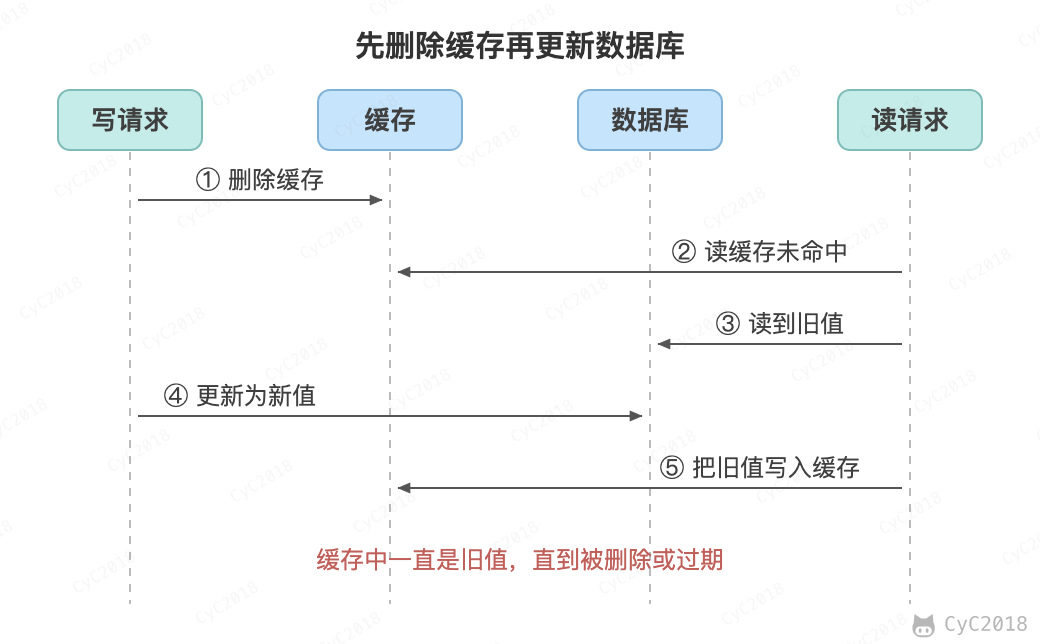
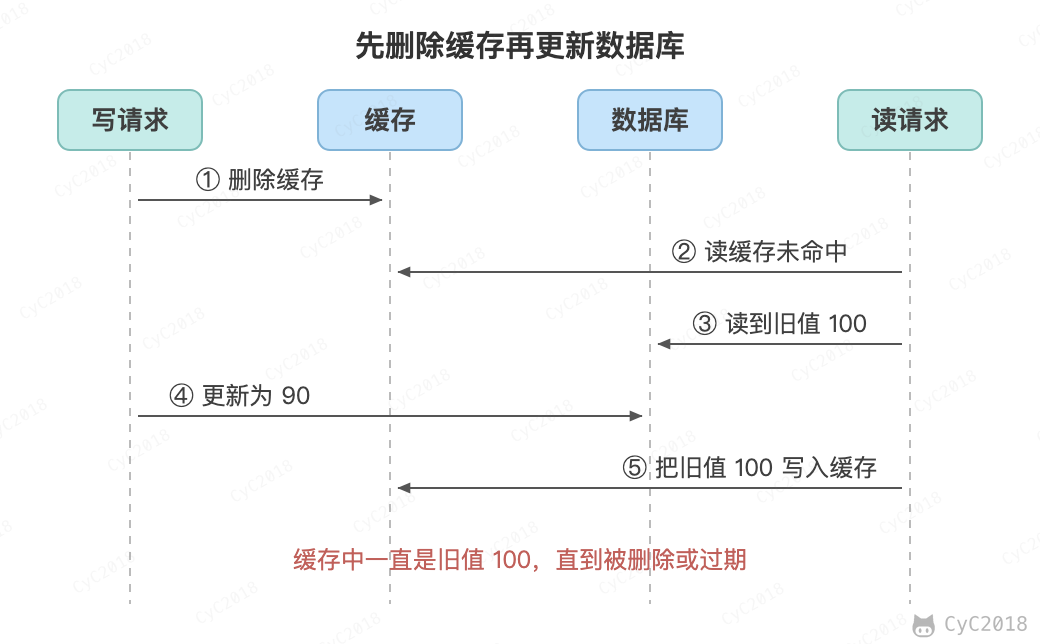
Update 缓存.md
补充先更新数据库再删除缓存时仍会留下旧值的情况、补救措施和实测，增加配图。

diff --git a/notes/缓存.md b/notes/缓存.md
@@ -162,13 +162,25 @@ CDN 主要有以下优点：
 
 <div align="center"> <img src="pics/cache-aside-race.png" width="520px"/> </div><br>
 
-这种模式仍然存在小概率的不一致，例如删除缓存失败。常用的补救措施：
+先更新数据库再删除缓存，仍然有两种情况会留下旧值：
+
+- 删除缓存失败，例如 Redis 超时；
+- 缓存刚好过期时，读请求从数据库读到旧值后停顿了一段时间（例如 GC），在它写回缓存之前，写请求更新了数据库并删除了缓存，之后读请求把旧值写入缓存。
+
+<div align="center"> <img src="pics/cache-aside-stale.png" width="520px"/> </div><br>
+
+第二种情况要求缓存恰好失效，并且读请求从查询数据库到写回缓存的耗时比写请求更新数据库再删除缓存还长，因此概率很小。
+
+用 8 个读进程不停读取同一个键，写入 1000 次：先删缓存再更新数据库有 980 次留下了旧值，先更新数据库再删缓存为 0 次。让缓存在每次写入前过期、读请求写回缓存前随机停顿 0～5 毫秒之后，先更新数据库再删缓存也有 542 次留下了旧值，加上延迟双删后为 0 次（MySQL 8.0、Redis 7.4 实测，见[附录 A4](#a4-缓存一致性的三种写法)）。
+
+常用的补救措施：
 
 - 为缓存设置过期时间作为兜底；
-- 延迟双删：更新数据库之后，隔一小段时间再删除一次缓存；
-- 订阅数据库的 binlog（例如使用 Canal）来异步删除缓存，失败时重试。
+- 延迟双删：更新数据库并删除缓存之后，隔一段时间再删除一次，清掉慢读请求写回的旧值，间隔要大于读请求从查询数据库到写回缓存的耗时；
+- 订阅数据库的 binlog（例如使用 Canal）异步删除缓存，失败时重试，业务代码中不再需要删除缓存；
+- 写回缓存时检查期间是否有过删除：Facebook 的 Memcache 在缓存未命中时发给读请求一个租约（lease）令牌，写回时要带上令牌，如果这期间键被删除，令牌就会失效，旧值写不进缓存。
 
-要保证缓存一致性需要付出很大的代价，缓存数据最好是那些对一致性要求不高的数据，允许缓存数据存在一些脏数据。
+缓存和数据库之间只能做到最终一致，要保证强一致需要付出很大的代价。缓存数据最好是那些对一致性要求不高、能接受短时间读到旧值的数据，余额、库存扣减这类数据应该直接读写数据库。
 
 ### 缓存 “无底洞” 现象
 
@@ -468,6 +480,48 @@ def owner(r, k):
 一致性哈希，每个节点 150 个位置：4 个节点的占比 A 27.0%、B 26.1%、C 24.1%、D 22.8%；增加节点 E 后迁移 18.4% 的键
 ```
 
+### A4 缓存一致性的三种写法
+
+MySQL 8.0.44，Redis 7.4.1，Python 3.13（pymysql、redis-py）。表中只有一行价格，8 个读进程不停读取：缓存未命中时查询数据库并写回缓存。写入方每次把价格加 1，按三种写法之一处理缓存，延迟双删的间隔为 50 毫秒；每次写入后等在途的读请求结束，检查缓存中是否留下了旧值，留下则计数并删除：
+
+```python
+def reader(flag):
+    while not flag.value:
+        if r.get(KEY) is None:
+            c.execute('select price from cache_demo where id = 1')
+            v = c.fetchone()[0]
+            if READ_DELAY:
+                time.sleep(random.uniform(0, READ_DELAY))
+            r.set(KEY, v)
+
+# 写入方，第 i 次写入
+if EXPIRE:
+    r.delete(KEY)                                    # 模拟缓存刚好过期
+if strategy == 'delete-then-update':
+    r.delete(KEY); c.execute('update cache_demo set price = %s where id = 1', (i,))
+else:
+    c.execute('update cache_demo set price = %s where id = 1', (i,)); r.delete(KEY)
+    if strategy == 'update-then-delete + double delete':
+        time.sleep(0.05); r.delete(KEY)
+```
+
+```text
+ROUNDS=1000 READ_DELAY=0ms EXPIRE=0 readers=8 (processes)
+delete-then-update                   stale 980/1000 (98.0%)
+update-then-delete                   stale 0/1000 (0.0%)
+update-then-delete + double delete   stale 0/1000 (0.0%)
+
+ROUNDS=1000 READ_DELAY=0ms EXPIRE=1 readers=8 (processes)
+delete-then-update                   stale 983/1000 (98.3%)
+update-then-delete                   stale 0/1000 (0.0%)
+update-then-delete + double delete   stale 0/1000 (0.0%)
+
+ROUNDS=1000 READ_DELAY=5ms EXPIRE=1 readers=8 (processes)
+delete-then-update                   stale 1000/1000 (100.0%)
+update-then-delete                   stale 542/1000 (54.2%)
+update-then-delete + double delete   stale 0/1000 (0.0%)
+```
+
 ## 参考资料
 
 - 杨传辉. 大规模分布式存储系统：原理解析与架构实战 [M]. 机械工业出版社, 2013.
@@ -478,5 +532,6 @@ def owner(r, k):
 - [How Aspiration CDN helps to improve your website loading speed?](https://www.aspirationhosting.com/aspiration-cdn/)
 - [Redis: UNLINK](https://redis.io/docs/latest/commands/unlink/)
 - [Redis CLI](https://redis.io/docs/latest/develop/tools/cli/)
+- [Scaling Memcache at Facebook](https://www.usenix.org/system/files/conference/nsdi13/nsdi13-final170_update.pdf)
 - [Caffeine Wiki](https://github.com/ben-manes/caffeine/wiki)
 - [Consistent Hashing and Random Trees: Distributed Caching Protocols for Relieving Hot Spots on the World Wide Web](https://dl.acm.org/doi/10.1145/258533.258660)
